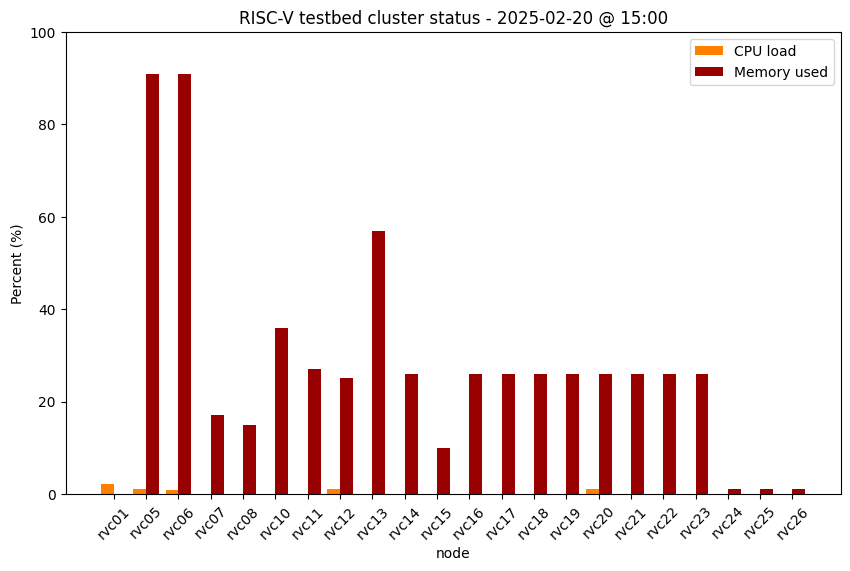
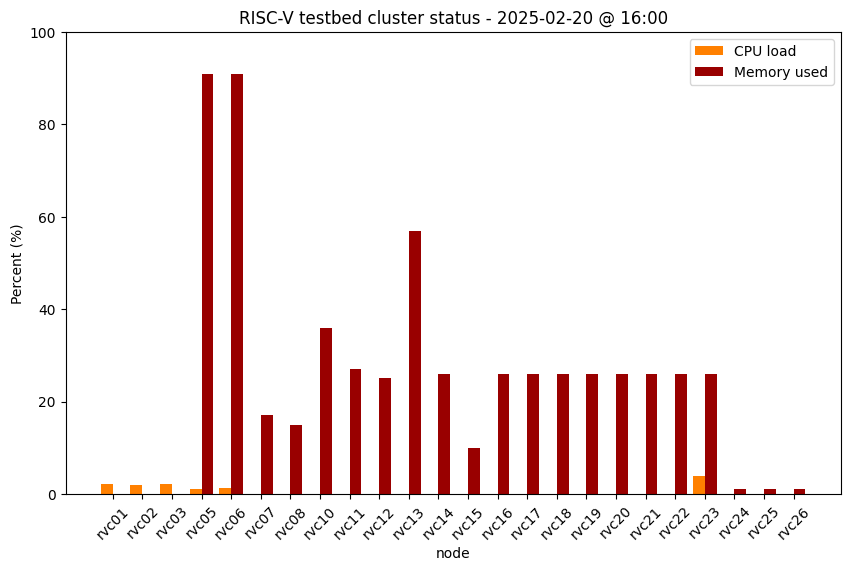
Update cluster status

Changed region(s): [[0.1224, 0.1191, 0.9482, 0.9527]]

diff --git a/status.md b/status.md
@@ -14,8 +14,8 @@ permalink: /status/
 | Description  | Hostname | # of cores | DRAM | Status |
 | ------------- | ------------- |  ------------- | ------------- | ------------- | 
 | Banana Pi BPI-F3 #1 | rvc01 | 8 | 16GB | <img src="/images/on.png" alt="green light" width="10"/> up |
-| Milk-V Jupiter #1 | rvc02 | 8 | 16GB | <img src="/images/off.png" alt="red light" width="10"/> down |
-| Milk-V Jupiter #2 | rvc03 | 8 | 16GB | <img src="/images/off.png" alt="red light" width="10"/> down |
+| Milk-V Jupiter #1 | rvc02 | 8 | 16GB | <img src="/images/on.png" alt="green light" width="10"/> up |
+| Milk-V Jupiter #2 | rvc03 | 8 | 16GB | <img src="/images/on.png" alt="green light" width="10"/> up |
 | DongshanNezhaSTU #4 | rvc04 | 1 | 512MB | <img src="/images/amber.png" alt="amber light" width="10"/> offline |
 | MangoPi MQ-Pro #1 | rvc05 | 1 | 1GB | <img src="/images/on.png" alt="green light" width="10"/> up |
 | MangoPi MQ-Pro #2 | rvc06 | 1 | 1GB | <img src="/images/on.png" alt="green light" width="10"/> up |
